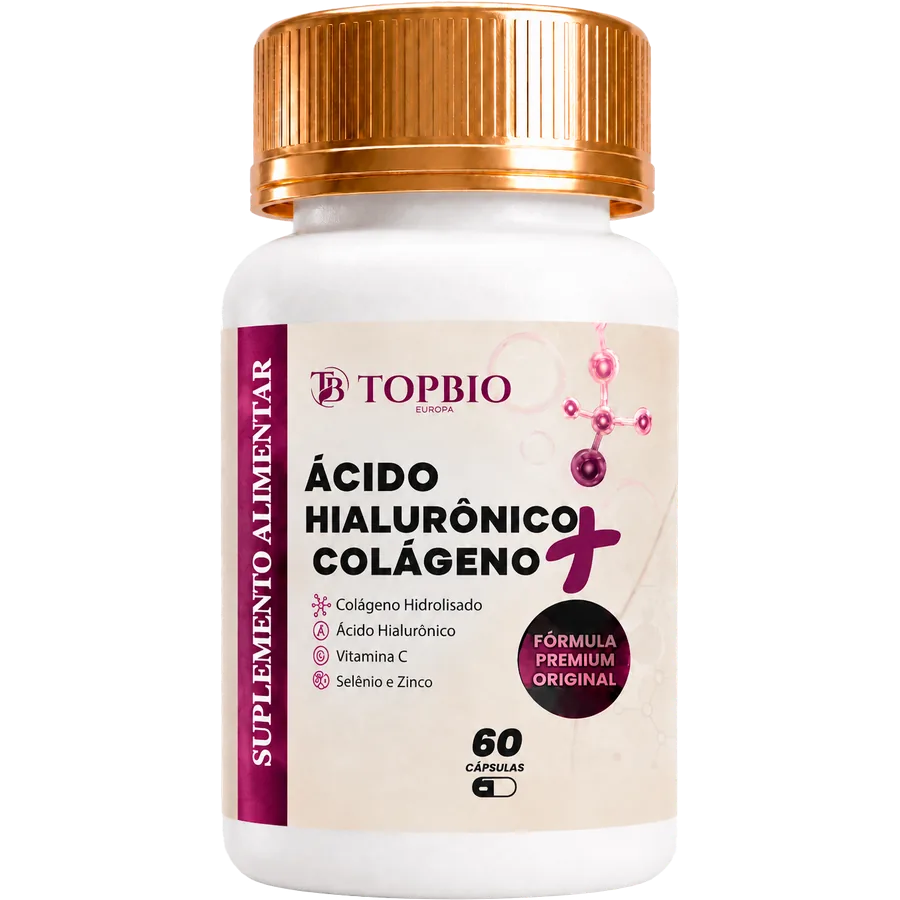
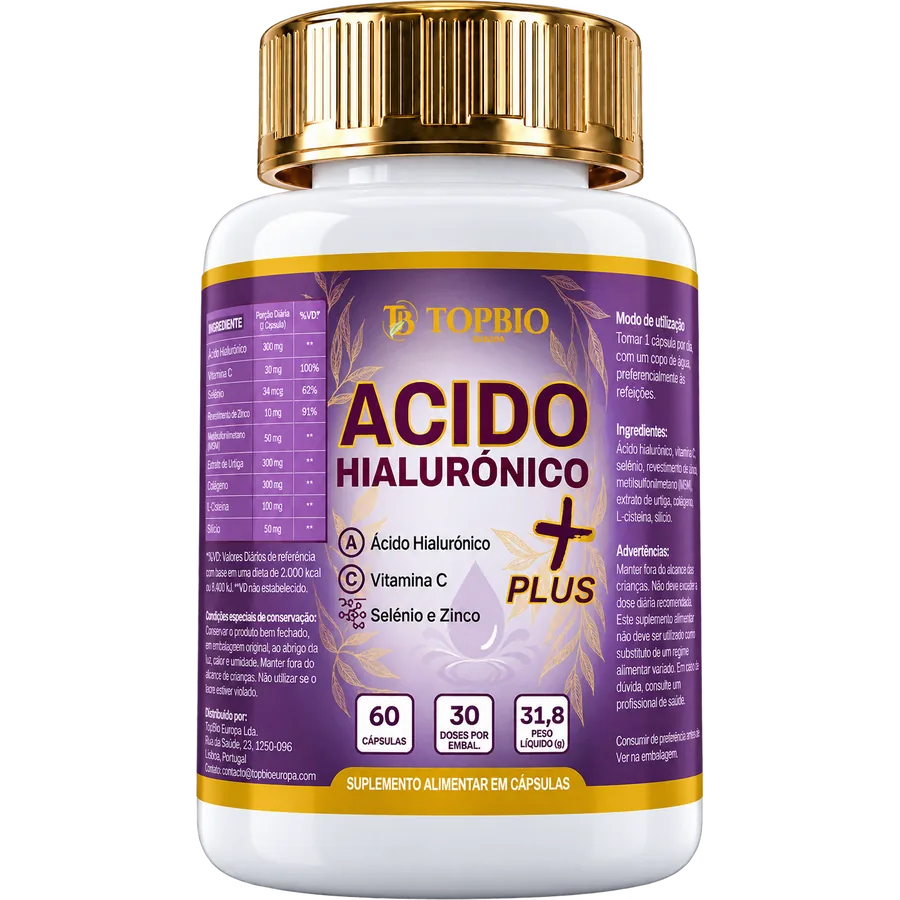
Acido Hialuronico Plus, Vitamina D3+Z+K2 e o Top Hair novo
O Acido Hialuronico muda de formula: a ficha sai do rotulo de impressao
e fica no gerador ate o site ser atualizado. A Vitamina D muda de nome,
de foto e dos dados do frasco; a formula fica igual. O Top Hair entra a
35 euros, no objetivo beleza, com a copy tirada do rotulo e so com as
alegacoes autorizadas.

As fotos do Acido e do Top Hair sao os mockups recebidos, cuja tabela nao
bate com o rotulo; trocam-se quando chegarem refeitos.

diff --git a/src/data/catalog.seed.ts b/src/data/catalog.seed.ts
@@ -301,7 +301,7 @@ export const catalogSeed: Product[] = [
   },
   {
     id: 'vitamina-d3-k2',
-    name: 'Vitamina D3 + K2',
+    name: 'Vitamina D3+Z+K2',
     priceCents: 3000,
     inStore: true,
     image: '/products/vitamina-d3-k2.webp',
@@ -311,7 +311,7 @@ export const catalogSeed: Product[] = [
     usage: '2 cápsulas por dia, preferencialmente com uma refeição que contenha gordura saudável.',
     goals: ['imunidade', 'mobilidade', 'longevidade'],
     active: true,
-    pack: { capsules: 60, doses: null, mgPerCapsule: 600, netWeight: '36 g' },
+    pack: { capsules: 60, doses: 30, mgPerCapsule: 500, netWeight: '30 g' },
     detail: {
       about: 'O Vitamina D3+K2+Zinco TopBioEuropa é um suplemento alimentar que combina três nutrientes com alegações de saúde autorizadas pela União Europeia, formulados para actuar de forma complementar no organismo. A Vitamina D3 contribui para a normal absorção e utilização de cálcio e fósforo, para a manutenção de ossos normais e de dentes normais, para o normal funcionamento dos músculos e para o normal funcionamento do sistema imunitário. A Vitamina K2 contribui para a manutenção de ossos normais. O Zinco contribui para o normal funcionamento do sistema imunitário, para a manutenção da saúde da pele, para a manutenção de cabelo normal, para a manutenção de unhas normais e para a proteção das células contra as oxidações indesejáveis. Formulado para complementar uma alimentação variada e equilibrada, com especial relevância para quem tem necessidade acrescida destes nutrientes.',
       forWhom: [
@@ -394,43 +394,45 @@ export const catalogSeed: Product[] = [
     priceCents: 3000,
     inStore: true,
     image: '/products/acido-hialuronico.webp',
-    description: 'Fórmula com 8 ingredientes, incluindo Vitamina C e Zinco para a saúde normal da pele.',
-    highlights: ['Vitamina C e Zinco', 'Saúde da pele', 'Proteção celular'],
-    ingredients: 'Ácido Hialurónico · Colagénio Hidrolisado · Vitamina C · Zinco · Astaxantina & Coenzima Q10 · Colina & Silício',
-    usage: '2 cápsulas por dia. Pode optar por uma de duas formas: Opção A: 2 cápsulas juntas em jejum, ao acordar, antes do pequeno-almoço. Opção B: 1 cápsula ao almoço + 1 cápsula ao jantar. Nota…',
+    description: 'Fórmula com 8 ingredientes, incluindo Vitamina C, Zinco, Biotina e Selénio para a manutenção de pele e cabelo normais.',
+    highlights: ['Vitamina C, Zinco e Selénio', 'Biotina para pele e cabelo', 'Proteção celular'],
+    ingredients: 'Ácido Hialurónico · Vitamina C · Astaxantina · Coenzima Q10 · Bambu (sílica) · Zinco · Biotina · Selénio',
+    usage: 'Tomar 2 cápsulas por dia, ou de acordo com o seu profissional de saúde.',
     goals: ['beleza'],
     active: true,
-    pack: { capsules: 60, doses: null, mgPerCapsule: null, netWeight: null },
+    pack: { capsules: 60, doses: 30, mgPerCapsule: 530, netWeight: '31,8 g' },
     detail: {
-      about: 'O Ácido Hialurónico TopBioEuropa é um suplemento alimentar de fórmula multiingrediente que combina ácido hialurónico, colagénio hidrolisado, silício, astaxantina, Vitamina C, zinco, coenzima Q10 e colina. A Vitamina C contribui para a formação normal de colagénio para o normal funcionamento da pele e para a proteção das células contra as oxidações indesejáveis. Contribui também para a redução do cansaço e da fadiga. O Zinco contribui para a manutenção da saúde da pele, para a manutenção de cabelo normal e para a manutenção de unhas normais. Também contribui para a proteção das células contra as oxidações indesejáveis. O ácido hialurónico é uma substância naturalmente presente no organismo humano, enquanto o colagénio hidrolisado é uma proteína estrutural naturalmente presente na pele, cartilagens e tecido conjuntivo. Formulado para complementar uma alimentação variada e equilibrada no contexto de uma rotina de cuidado pessoal.',
+      about: 'O Ácido Hialurónico Plus TopBioEuropa é um suplemento alimentar que combina ácido hialurónico com Vitamina C, Zinco, Biotina e Selénio, a que se juntam astaxantina, coenzima Q10 e extrato de bambu. A Vitamina C contribui para a formação normal de colagénio para o normal funcionamento da pele e para a proteção das células contra as oxidações indesejáveis. O Zinco contribui para a manutenção de pele, cabelo e unhas normais. A Biotina contribui para a manutenção de pele e cabelo normais. O Selénio contribui para a manutenção de cabelo e unhas normais e para a proteção das células contra as oxidações indesejáveis. Formulado para complementar uma alimentação variada e equilibrada.',
       forWhom: [
         'Adultos a partir dos 18 anos.',
-        'Quem pretende complementar a alimentação com Vitamina C e Zinco, nutrientes que contribuem para a manutenção da saúde normal da pele.',
-        'Quem procura um suplemento multiingrediente com ácido hialurónico, colagénio hidrolisado e antioxidantes naturais.',
-        'Quem deseja integrar um suplemento de cuidado pessoal numa rotina alimentar equilibrada.',
+        'Quem pretende complementar a alimentação com Vitamina C, Zinco, Biotina e Selénio, nutrientes que contribuem para a manutenção de pele e cabelo normais.',
+        'Quem procura um suplemento multiingrediente com ácido hialurónico e antioxidantes naturais, como a astaxantina e a coenzima Q10.',
       ],
-      usage: '2 cápsulas por dia. Pode optar por uma de duas formas: Opção A: 2 cápsulas juntas em jejum, ao acordar, antes do pequeno-almoço. Opção B: 1 cápsula ao almoço + 1 cápsula ao jantar. Nota prática: a Vitamina C e o Zinco têm melhor absorção quando ingeridos com alimentos leves — se preferir a Opção B, as refeições principais são o momento ideal. Tomar com um copo de água. Hidratação diária recomendada: aproximadamente 35 ml por kg de peso corporal.',
-      nutrition: 'Composição: Ácido Hialurónico Colagénio Hidrolisado Silício Astaxantina Vitamina C Zinco Coenzima Q10 (ubiquinona) Colina Consulte a tabela nutricional completa na embalagem.',
+      usage: 'Tomar 2 cápsulas por dia, ou de acordo com o seu profissional de saúde. Tomar com um copo de água.',
+      nutrition: 'Por toma diária de 2 cápsulas: Ácido hialurónico 240 mg, Vitamina C 160 mg (200% VRN), Extrato seco de Haematococcus pluvialis 160 mg (8 mg de astaxantina), Coenzima Q10 100 mg, Extrato seco de bambu 40 mg (30 mg de sílica), Zinco 20 mg (200% VRN), Biotina 200 µg (400% VRN), Selénio 110 µg (200% VRN).',
       notes: [
+        'Suplemento alimentar destinado a adultos. Não deve ser consumido por grávidas, lactantes e crianças.',
+        'Não utilizar se estiver a tomar medicação.',
         'Não exceder a toma diária recomendada.',
-        'Os suplementos alimentares não substituem uma alimentação variada e equilibrada nem um estilo de vida saudável.',
-        'Manter fora do alcance das crianças.',
-        'Em caso de gravidez, amamentação, doença crónica ou se está sob medicação, consulte o seu médico ou nutricionista antes de iniciar a toma.',
-        'Conservar em local fresco e seco, ao abrigo da luz solar directa.',
+        'Os suplementos alimentares não substituem um regime alimentar variado e equilibrado nem um modo de vida saudável.',
+        'Manter fora do alcance e da vista das crianças.',
+        'Não utilizar em caso de hipersensibilidade ou alergia a qualquer um dos componentes.',
+        'Conservar o produto bem fechado, na embalagem original, em local fresco, ao abrigo da luz, da humidade e do calor, a menos de 25 ºC.',
       ],
       ingredients: [
-        { name: 'Ácido Hialurónico', note: 'Substância naturalmente presente no organismo humano, em especial nos tecidos conjuntivos, olhos e fluido sinovial das articulações. Componente da fórmula.' },
-        { name: 'Colagénio Hidrolisado', note: 'Proteína estrutural naturalmente presente na pele, cartilagens, tendões e tecido conjuntivo. Na forma hidrolisada apresenta-se em peptídeos de menor dimensão, mais fáceis de incorporar na alimentação diária.' },
-        { name: 'Vitamina C', note: 'A Vitamina C contribui para a formação normal de colagénio para o normal funcionamento da pele. Contribui também para a proteção das células contra as oxidações indesejáveis e para a redução do cansaço e da fadiga.' },
-        { name: 'Zinco', note: 'O Zinco contribui para a manutenção da saúde da pele, para a manutenção de cabelo normal e para a manutenção de unhas normais. Também contribui para a proteção das células contra as oxidações indesejáveis.' },
-        { name: 'Astaxantina & Coenzima Q10', note: 'Astaxantina — carotenóide de origem natural, presente em microalgas e em alguns crustáceos. Coenzima Q10 (ubiquinona) — substância naturalmente presente nas células do organismo humano. Componentes antioxidantes naturais da fórmula.' },
-        { name: 'Colina & Silício', note: 'Colina — nutriente naturalmente presente em ovos, fígado e leguminosas. A Colina contribui para o normal metabolismo dos lípidos. Silício — mineral naturalmente presente em alimentos de origem vegetal como cereais integrais e legumes.' },
+        { name: 'Ácido Hialurónico – 240 mg', note: 'Na forma de hialuronato de sódio. Substância naturalmente presente no organismo humano, em especial nos tecidos conjuntivos, olhos e fluido sinovial das articulações.' },
+        { name: 'Vitamina C – 160 mg', note: 'A Vitamina C contribui para a formação normal de colagénio para o normal funcionamento da pele, para a proteção das células contra as oxidações indesejáveis e para a redução do cansaço e da fadiga.' },
+        { name: 'Zinco – 20 mg', note: 'O Zinco contribui para a manutenção de pele, cabelo e unhas normais e para a proteção das células contra as oxidações indesejáveis.' },
+        { name: 'Biotina – 200 µg', note: 'A Biotina contribui para a manutenção de pele normal e de cabelo normal.' },
+        { name: 'Selénio – 110 µg', note: 'O Selénio contribui para a manutenção de cabelo normal e de unhas normais e para a proteção das células contra as oxidações indesejáveis.' },
+        { name: 'Astaxantina & Coenzima Q10', note: 'Astaxantina — carotenoide de origem natural, obtido da microalga Haematococcus pluvialis. Coenzima Q10 (ubiquinona) — substância naturalmente presente nas células do organismo humano.' },
+        { name: 'Bambu (Sílica)', note: 'Extrato seco de Bambusa arundinacea, naturalmente rico em ácido silícico.' },
       ],
       faq: [
-        { question: 'Devo tomar em jejum ou com as refeições?', answer: 'Ambas as opções são válidas. Se preferir tomar em jejum, pode fazê-lo ao acordar antes do pequeno-almoço. Se preferir dividir a dose, tome 1 cápsula ao almoço e 1 ao jantar — especialmente recomendado pois a Vitamina C e o Zinco têm melhor absorção com alimentos leves.' },
-        { question: 'Posso combinar com outros suplementos?', answer: 'Este produto pode integrar uma rotina de suplementação mais ampla. Se está a tomar outros suplementos ou medicamentos, recomendamos que consulte o seu médico ou nutricionista para uma orientação personalizada.' },
-        { question: 'Posso tomar durante a gravidez ou amamentação?', answer: 'Em caso de gravidez, amamentação, doença crónica ou se está sob medicação, consulte o seu médico ou nutricionista antes de iniciar a toma de qualquer suplemento alimentar.' },
-        { question: 'Quanto tempo dura uma embalagem?', answer: 'Com a toma recomendada de 2 cápsulas por dia, cada embalagem dura aproximadamente um mês.' },
+        { question: 'Como devo tomar?', answer: 'Tome 2 cápsulas por dia com um copo de água, ou de acordo com a indicação do seu profissional de saúde.' },
+        { question: 'Posso tomar durante a gravidez ou amamentação?', answer: 'Não. Este suplemento destina-se a adultos e não deve ser consumido por grávidas, lactantes nem crianças.' },
+        { question: 'Posso tomar se estiver a fazer medicação?', answer: 'O rótulo indica que não deve ser utilizado por quem está a tomar medicação. Em caso de dúvida, fale com o seu médico.' },
+        { question: 'Quanto tempo dura uma embalagem?', answer: 'Com a toma recomendada de 2 cápsulas por dia, as 60 cápsulas dão para 30 dias.' },
       ],
     },
   },
@@ -994,6 +996,54 @@ export const catalogSeed: Product[] = [
       ],
       ingredients: [],
       faq: [],
+    },
+  },
+  {
+    id: 'top-hair',
+    name: 'Top Hair',
+    priceCents: 3500,
+    inStore: true,
+    image: '/products/top-hair.webp',
+    description: 'Biotina, Zinco, Selénio e Cobre para a manutenção de cabelo normal, com L-Cistina, MSM e vitaminas B e D3.',
+    highlights: ['Biotina · Zinco · Selénio', 'L-Cistina + MSM', 'Vitaminas B + D3'],
+    ingredients: 'L-Cistina · MSM · Zinco · Vitamina B6 · Cobre · Folato · Biotina · Selénio · Vitamina D3 · Vitamina B12',
+    usage: 'Tomar 2 cápsulas por dia, ou de acordo com o seu profissional de saúde.',
+    goals: ['beleza'],
+    active: true,
+    pack: { capsules: 60, doses: 30, mgPerCapsule: 500, netWeight: '30 g' },
+    detail: {
+      about: 'O Top Hair TopBioEuropa é um suplemento alimentar pensado para o cabelo, que junta L-Cistina e MSM a sete vitaminas e minerais. A Biotina, o Zinco e o Selénio contribuem para a manutenção de cabelo normal, e o Cobre contribui para a pigmentação normal do cabelo. O Zinco e o Selénio contribuem também para a manutenção de unhas normais. As vitaminas B6, B12 e o Folato contribuem para a redução do cansaço e da fadiga, e a Vitamina D3 para o normal funcionamento do sistema imunitário. Formulado para complementar uma alimentação variada e equilibrada.',
+      forWhom: [
+        'Adultos a partir dos 18 anos.',
+        'Quem pretende complementar a alimentação com Biotina, Zinco e Selénio, nutrientes que contribuem para a manutenção de cabelo normal.',
+        'Quem procura uma fórmula que junte, numa só toma, minerais, vitaminas do complexo B e Vitamina D3.',
+      ],
+      usage: 'Tomar 2 cápsulas por dia, ou de acordo com o seu profissional de saúde. Tomar com um copo de água.',
+      nutrition: 'Por toma diária de 2 cápsulas: L-Cistina 300 mg, Metilsulfonilmetano (MSM) 300 mg, Zinco 10 mg (100% VRN), Vitamina B6 2 mg (143% VRN), Cobre 500 µg (50% VRN), Folato 200 µg (100% VRN), Biotina 150 µg (300% VRN), Selénio 55 µg (100% VRN), Vitamina D3 25 µg / 1000 UI (500% VRN), Vitamina B12 25 µg (1000% VRN).',
+      notes: [
+        'Suplemento alimentar destinado a adultos. Não deve ser consumido por grávidas, lactantes e crianças.',
+        'Não utilizar se estiver a tomar medicação.',
+        'Não exceder a toma diária recomendada.',
+        'Os suplementos alimentares não substituem um regime alimentar variado e equilibrado nem um modo de vida saudável.',
+        'Manter fora do alcance e da vista das crianças.',
+        'Não utilizar em caso de hipersensibilidade ou alergia a qualquer um dos componentes.',
+        'Conservar o produto bem fechado, na embalagem original, em local fresco, ao abrigo da luz, da humidade e do calor, a menos de 25 ºC.',
+      ],
+      ingredients: [
+        { name: 'Biotina – 150 µg', note: 'A Biotina contribui para a manutenção de cabelo normal e de pele normal.' },
+        { name: 'Zinco – 10 mg', note: 'O Zinco contribui para a manutenção de cabelo, pele e unhas normais e para o normal funcionamento do sistema imunitário.' },
+        { name: 'Selénio – 55 µg', note: 'O Selénio contribui para a manutenção de cabelo normal e de unhas normais e para a proteção das células contra as oxidações indesejáveis.' },
+        { name: 'Cobre – 500 µg', note: 'O Cobre contribui para a pigmentação normal do cabelo e para a manutenção de tecidos conjuntivos normais.' },
+        { name: 'Vitaminas B6, B12 e Folato', note: 'Contribuem para a redução do cansaço e da fadiga e para o normal funcionamento do sistema imunitário.' },
+        { name: 'Vitamina D3 – 25 µg (1000 UI)', note: 'A Vitamina D contribui para o normal funcionamento do sistema imunitário e para a manutenção de ossos normais.' },
+        { name: 'L-Cistina & MSM – 300 mg cada', note: 'L-Cistina — aminoácido que contém enxofre. MSM (metilsulfonilmetano) — composto de enxofre de origem natural.' },
+      ],
+      faq: [
+        { question: 'Como devo tomar?', answer: 'Tome 2 cápsulas por dia com um copo de água, ou de acordo com a indicação do seu profissional de saúde.' },
+        { question: 'Posso tomar durante a gravidez ou amamentação?', answer: 'Não. Este suplemento destina-se a adultos e não deve ser consumido por grávidas, lactantes nem crianças.' },
+        { question: 'Posso tomar se estiver a fazer medicação?', answer: 'O rótulo indica que não deve ser utilizado por quem está a tomar medicação. Em caso de dúvida, fale com o seu médico.' },
+        { question: 'Quanto tempo dura uma embalagem?', answer: 'Com a toma recomendada de 2 cápsulas por dia, as 60 cápsulas dão para 30 dias.' },
+      ],
     },
   },
 ]

diff --git a/server/prices.js b/server/prices.js
@@ -31,4 +31,5 @@ export const PRICES = {
   'top-shape': 4500,
   'top-max': 6000,
   'top-shot': 4000,
+  'top-hair': 3500,
 }
